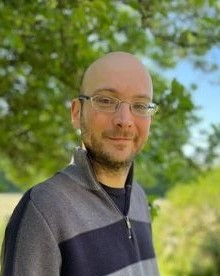
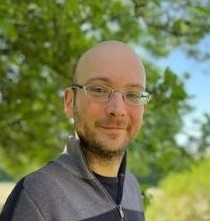
relooking avec photo bis
changement de couleur et de photo encore

diff --git a/style.css b/style.css
@@ -294,7 +294,7 @@ marge
     left: 0px;
     width:170px;
     height:100%;
-    background-color:lightgreen;
+    background-color:#C3EA9F;
 		text-align: left;
 		font-size: small;
 		border-top: 3px solid black;
@@ -331,7 +331,7 @@ home
     left: 6px;
     width:150px;
     height:20px;
-    background-color:lightgreen;
+    background-color:#C3EA9F;
     color:black;
     text-align: right;
 }
@@ -346,7 +346,7 @@ cv
     left: 6px;
     width:150px;
     height:20px;
-    background-color:lightgreen;
+    background-color:#C3EA9F;
     color:black;
     text-align: right;
 }
@@ -359,7 +359,7 @@ recherches
     left: 6px;
     width:150px;
     height:20px;
-    background-color:lightgreen;
+    background-color:#C3EA9F;
     color:black;
     font-family:verdana;
     text-align: right;
@@ -373,7 +373,7 @@ enseignement
     left: 6px;
     width:150px;
     height:20px;
-    background-color:lightgreen;
+    background-color:#C3EA9F;
     color:black;
     font-family:verdana;
     text-align: right;
@@ -387,7 +387,7 @@ liens
     left: 6px;
     width:150px;
     height:20px;
-    background-color:lightgreen;
+    background-color:#C3EA9F;
     color:black;
     text-align: right;
 }
@@ -412,7 +412,7 @@ EF
 	display: inline-block;
     width:151px;
     height:21px;
-    background-color:lightgreen;
+    background-color:#C3EA9F;
     color:black;
     text-align: right;
     text-decoration:none;
@@ -421,7 +421,7 @@ EF
 .clic:hover
 {
 	color:black;
-	background-color:#C3EA9F;
+	background-color:lightgreen;
 }
 
 .clic2
